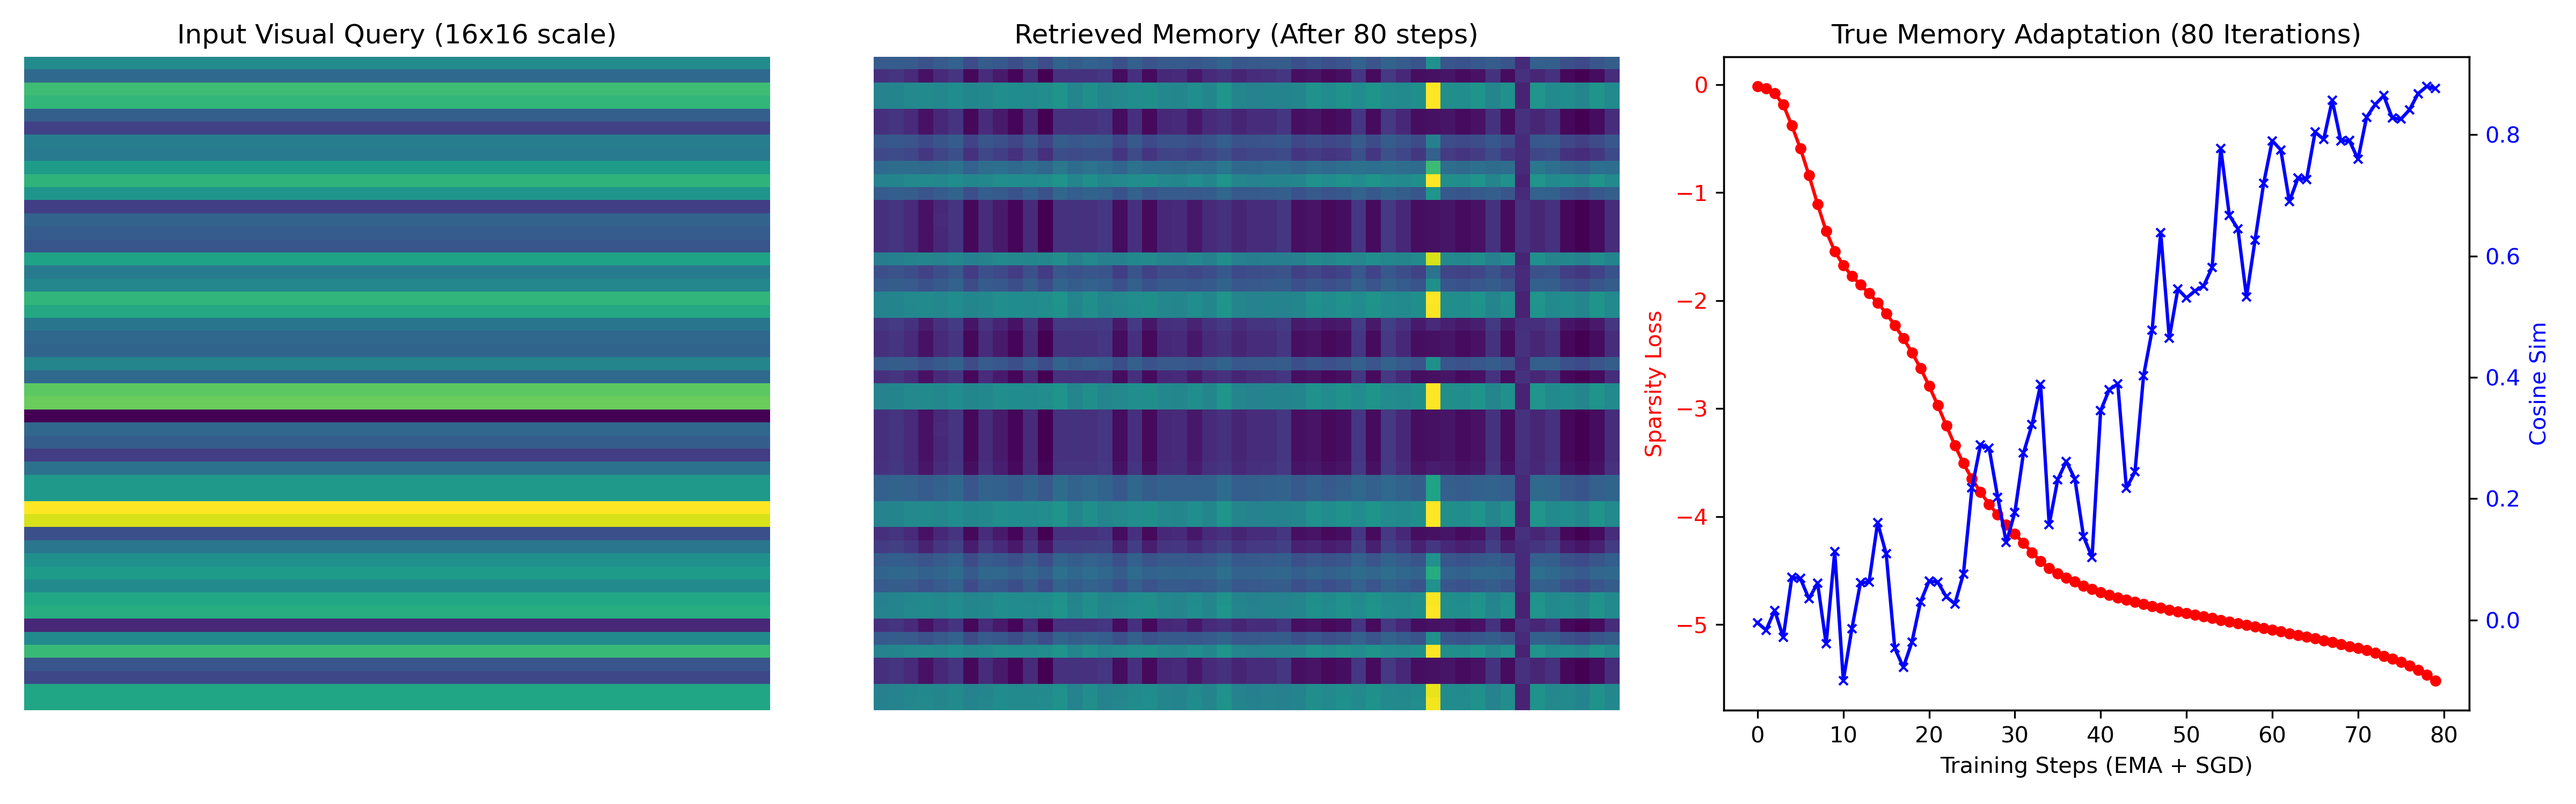
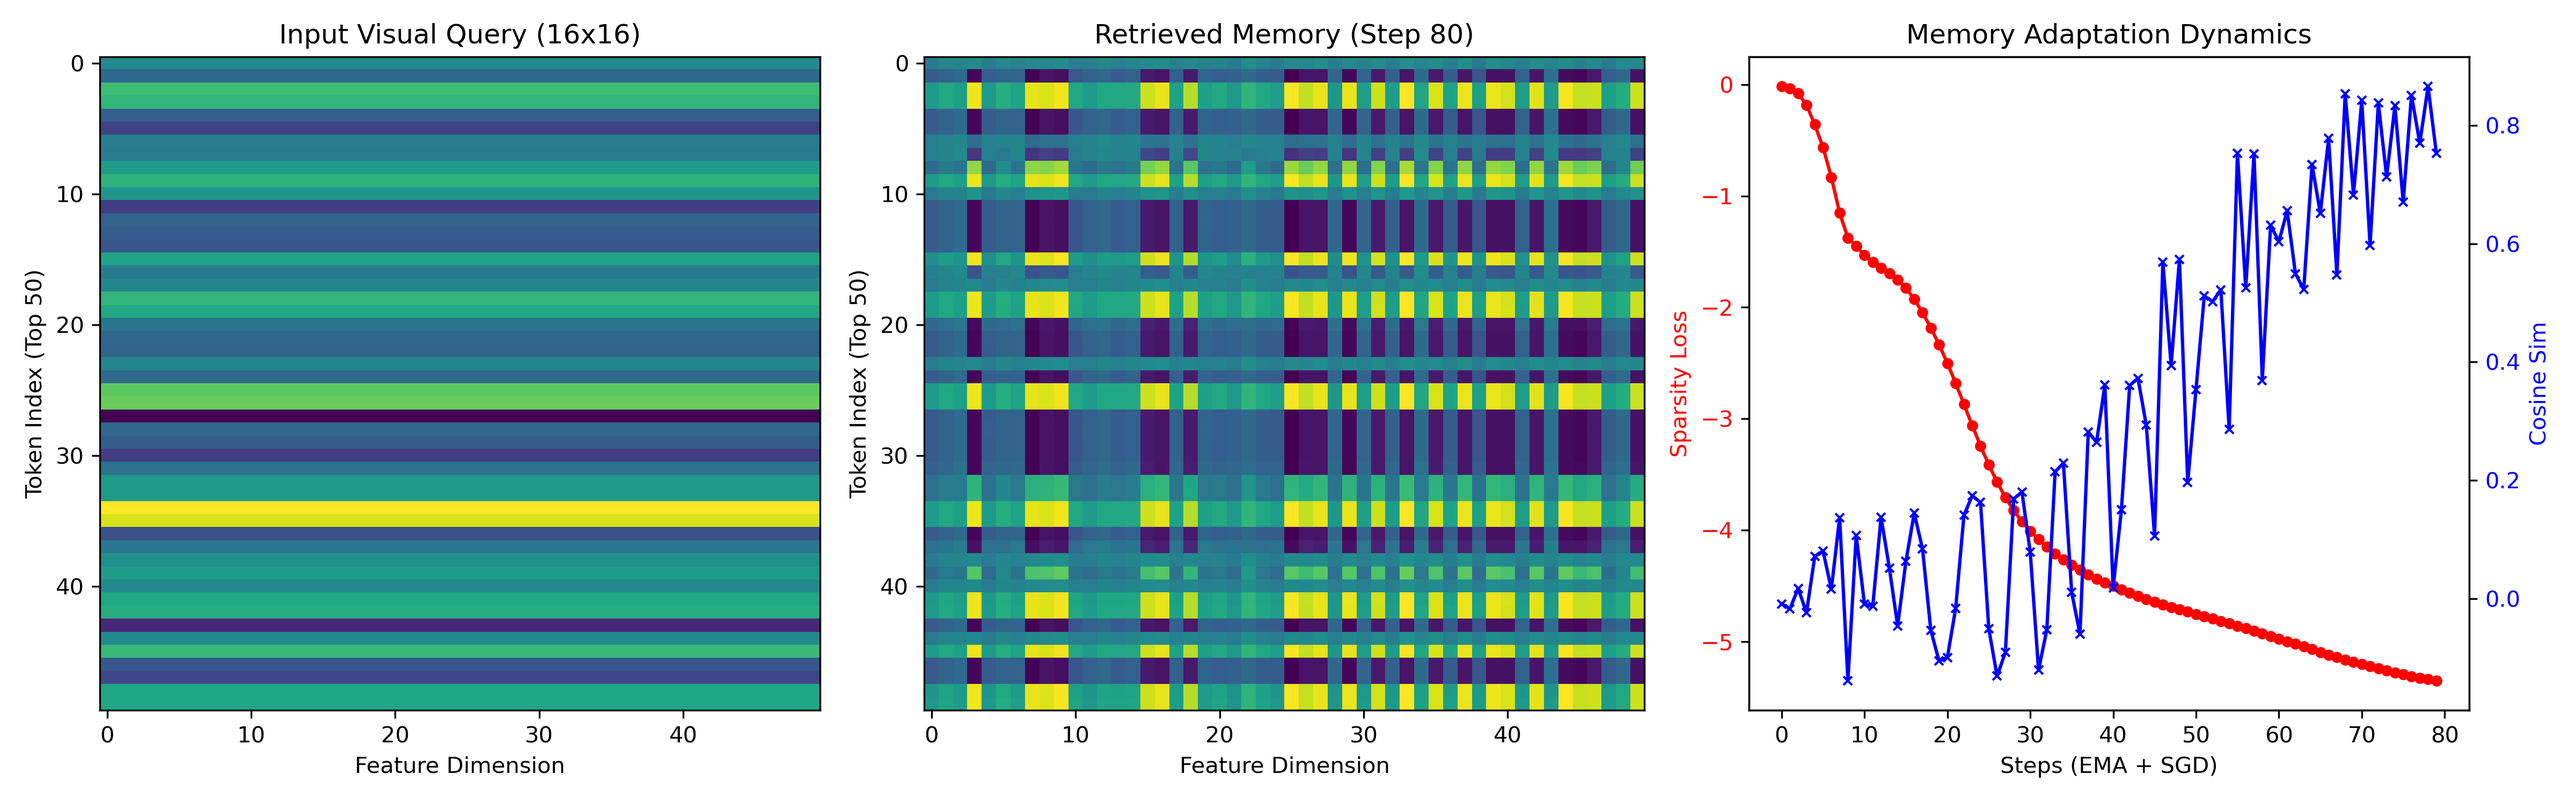
0319 update

diff --git a/examples/run_dream_demo.py b/examples/run_dream_demo.py
@@ -142,17 +142,22 @@ def run_visualization_demo():
     fig, (ax1, ax2, ax3) = plt.subplots(1, 3, figsize=(16, 5))
     
     slice_idx = 50 
-    # Displaying the 'Striped' input pattern
+    
+    # Left Plot: Input Visual Query with axes
     ax1.imshow(feat_16[0, :slice_idx, :slice_idx].cpu().numpy(), cmap='viridis', aspect='auto')
     ax1.set_title("Input Visual Query (16x16)")
-    ax1.axis('off')
+    ax1.set_xlabel("Feature Dimension")
+    ax1.set_ylabel("Token Index (Top 50)")
+    ax1.axis('on') # Ensure axes are visible
     
-    # Displaying how the memory has retrieved and reconstructed the pattern
+    # Middle Plot: Retrieved Memory with axes
     ax2.imshow(retrieved_16[0, :slice_idx, :slice_idx].cpu().detach().numpy(), cmap='viridis', aspect='auto')
     ax2.set_title(f"Retrieved Memory (Step {steps})")
-    ax2.axis('off')
+    ax2.set_xlabel("Feature Dimension")
+    ax2.set_ylabel("Token Index (Top 50)")
+    ax2.axis('on') # Ensure axes are visible
     
-    # Quantifying the convergence: Sparsity vs. Cosine Similarity
+    # Right Plot: Training Dynamics (Undeclared/Original code maintained)
     ax3.plot(loss_history, label='Sparsity Loss', color='red', marker='o', markersize=4)
     ax3.set_ylabel("Sparsity Loss", color='red')
     ax3.tick_params(axis='y', labelcolor='red')

diff --git a/README.md b/README.md
@@ -8,6 +8,8 @@
 
 *(Note: The codebase is currently being updated for full public release. We are progressively uploading the core modules and scripts.)*
 
+---
+
 ## 📖 About DREAM
 
 Large multimodal models (LMMs) have shown great promise in document recognition, but they typically rely on implicit modeling where knowledge is entangled within network weights. This makes them struggle with complex, unseen layouts and hard to update. 
@@ -16,10 +18,34 @@ To address this, we propose **DREAM**, which augments document recognition model
 
 ### Key Features:
 * **Memory Retrieval & Consolidation:** Local document regions sparsely attend to a few prototypes (e.g., image borders, tilted text) to retrieve explicit structural context. The memory is continuously updated via an EMA strategy during training.
-**Hierarchical Multiscale Design:** Independent prototype memory banks operate across different spatial resolutions to capture global layouts, mid-level components, and fine-grained styles[cite: 51, 180, 183].
-* **Plug-and-Play Module:** DREAM can be seamlessly integrated into various encoder-decoder architectures. [cite_start]We validated it on both large multimodal document recognition (using Qwen 0.5B decoder) and handwriting text line recognition tasks.
+* **Hierarchical Multiscale Design:** Independent prototype memory banks operate across different spatial resolutions to capture global layouts, mid-level components, and fine-grained styles.
+* **Plug-and-Play Module:** DREAM can be seamlessly integrated into various encoder-decoder architectures. We validated it on both large multimodal document recognition (using Qwen 0.5B/3B decoders) and handwriting text line recognition tasks.
 * **Sparsity Regularization:** We introduce an entropy-based loss to encourage sparse and non-collapsing prototype assignments.
 
+---
+
+## 💻 Codebase Structure & Integration
+
+The repository is modularly designed to allow seamless integration into existing vision-language pipelines. 
+
+### 1. Core Algorithm (`dream_core/`)
+The standalone implementation of the DREAM memory architecture.
+* `prototype_memory_module.py`: The explicit memory bank featuring FP32-isolated Read (MHA retrieval) and Write (EMA consolidation) mechanisms.
+* `multiscale_memory.py`: The central dispatcher that aligns, triggers, and fuses hierarchical visual features (16x16, 32x32, 64x64).
+* `loss.py`: The sparsity entropy loss function designed to prevent memory collapse.
+
+### 2. Model Integration (`got_integration/`)
+Templates and modified architectures for injecting DREAM into GOT-OCR 2.0 (Qwen-based).
+* `vary_b_multi.py`: A heavily modified Vision Tower that extracts and outputs three hierarchical feature scales simultaneously.
+* `got_qwen_dream.py`: The integration template for Qwen2, showcasing the exact `[DREAM INJECTION]` locations.
+* `got_qwen3_0.6B_dream.py`: Upgrade GOT's decoder to Qwen3-0.6B.
+
+### 3. Verification & Visualization (`examples/`)
+Tools to diagnose the memory data flow and visualize adaptation dynamics.
+* `test_dream_core_module.py`: A lightweight diagnostic script to verify multi-scale alignment and synchronization across all memory banks.
+* `run_dream_demo.py`: A high-fidelity visualization simulation that demonstrates how memory prototypes "carve" and adapt to structural archetypes over time.
+
+---
 
 ## 🗂 DreamDoc Dataset
 
@@ -50,13 +76,14 @@ DreamDoc/
 ├── yiwujiaoyu/         # Primary/secondary school textbooks
 ├── addnoise.py         # Utility script for adding noise/augmentations
 └── label.json          # Ground truth transcripts and metadata for all images
-  ```
 
 ## 🚀 Release Status
 
 To facilitate future research, we are releasing the comprehensive **DreamDoc** dataset and the associated project codebase. The repository is currently being updated to ensure full reproducibility and transparency.
 
 - [x] DreamDoc Dataset
-- [ ] Model Architecture Definitions (`DREAM` module)
-- [ ] Inference Scripts
+- [x] Model Architecture Definitions (dream_core)
+- [x] Integration Architectures for GOT-OCR (got_integration)
+- [x] Diagnostic and Visualization (examples)
+- [ ] Inference Scripts and Model Weights
 - [ ] Training Scripts

diff --git a/examples/README.md b/examples/README.md
@@ -1,0 +1,49 @@
+# DREAM: Examples & Simulations
+
+This directory contains diagnostic and simulation scripts to verify and visualize the behavior of the **DREAM (Document Recognition with Explicit Adaptive Memory)** module. 
+
+---
+
+## 🛠 1. `test_dream_core_module.py`
+**Multi-scale Integration & Diagnostic Tool**
+
+This script serves as a lightweight, single-pass diagnostic test to verify the structural integrity and data flow of the hierarchical memory system.
+
+### What it does:
+It simulates a single forward pass of visual features across three different scales (16x16, 32x32, and 64x64) through the DREAM module. It outputs a detailed, step-by-step terminal report verifying that:
+* **Read & Align:** Features from different scales are correctly retrieved and spatially down-sampled/aligned.
+* **Write (EMA):** The Exponential Moving Average (EMA) update mechanism is successfully triggered across all corresponding memory banks.
+* **Projection:** The fused multi-scale features are correctly concatenated and projected back to the required Large Language Model (LLM) hidden dimension.
+
+**Usage:**
+```bash
+python examples/test_dream_core_module.py
+```
+
+---
+
+## 🚀 2. `run_dream_demo.py`
+**Memory Adaptation Training Simulation**
+
+This script is a visualization tool designed to demonstrate the long-term learning and convergence dynamics of the DREAM module. 
+
+### The Toy Example: Simulating Structural Consistency
+To illustrate how the memory module adapts to document layouts, this script employs a controlled **toy example**. Instead of feeding a diverse dataset, we repeatedly feed the **exact same fixed document sample** into the memory module for 80 iterations. 
+
+This extreme scenario simulates a real-world situation where a model processes massive volumes of documents sharing a highly consistent structural layout (e.g., standardized invoices or forms). By repeatedly observing the same structural archetype, we can clearly visualize how the memory system uses **SGD** (to learn projections) and **EMA** (to update memory weights) to slowly "memorize" and reconstruct this layout.
+
+### The Visualization Output
+Upon completion, the script generates a 3-pane analytical plot (`dream_memory_visualize.png`) to quantify the memory adaptation process:
+
+* **Left Plot (Input Visual Query):** Displays the feature map of the original, fixed document sample. 
+    * **Y-axis:** Represents the index of the first 50 spatial tokens.
+    * **X-axis:** Represents the feature dimension channels.
+* **Middle Plot (Retrieved Memory):** Displays the reconstructed feature map retrieved from the memory module after the training steps. Comparing this to the left plot visually demonstrates how accurately the memory bank has learned and "carved" the input structure.
+* **Right Plot (Memory Adaptation Dynamics):** A dual-axis graph tracking the optimization metrics over the training steps. 
+    * The **Red Curve (Sparsity Loss)** shows the regularization term stabilizing to prevent memory collapse.
+    * The **Blue Curve (Cosine Similarity)** illustrates the alignment accuracy between the input query and the retrieved memory climbing as the module learns.
+
+**Usage:**
+```bash
+python examples/run_dream_demo.py
+```
